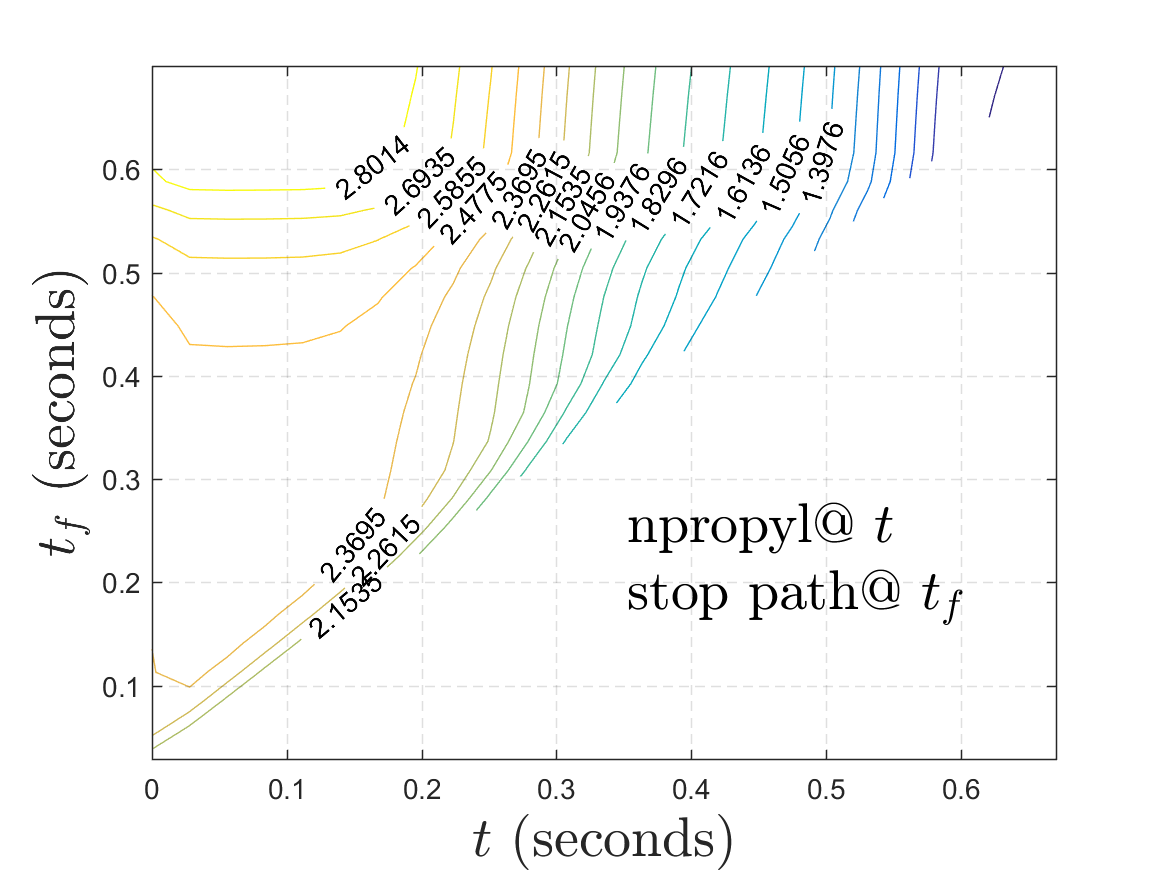
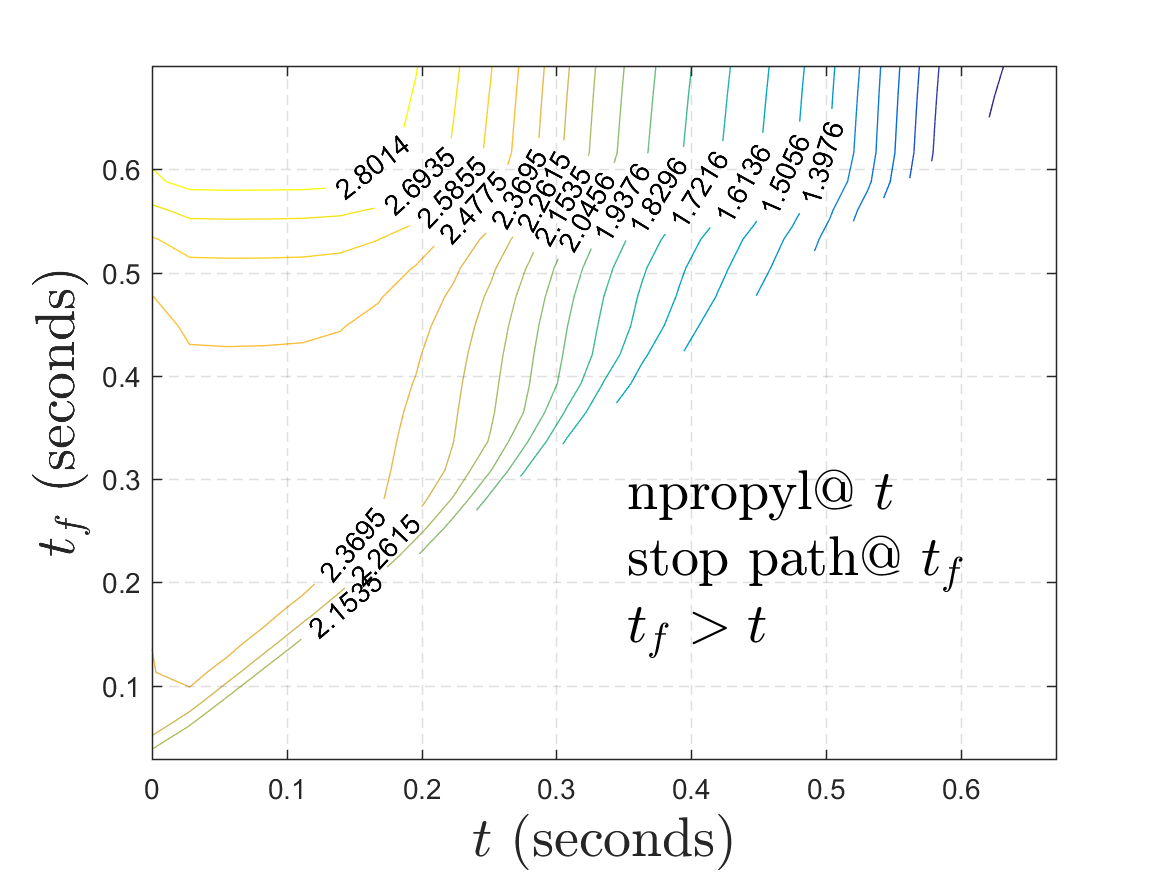
minor

Changed region(s): [[0.5244, 0.5246, 0.8329, 0.7406]]

diff --git a/theory/misc/Merchant_f/2d_f/ipropyl/two_dim_Merchant_f_v2.m b/theory/misc/Merchant_f/2d_f/ipropyl/two_dim_Merchant_f_v2.m
@@ -60,7 +60,7 @@ grid on;
 a_x = gca;
 t_x = a_x.XLim(1) + 0.525*(a_x.XLim(2) - a_x.XLim(1));
 t_y = a_x.YLim(1) + 0.278*(a_x.YLim(2) - a_x.YLim(1));
-text(t_x, t_y, [spe_name, '@ $t$' char(10) 'stop path@ $t_f$'], 'Interpreter','latex', 'FontSize', 20);
+text(t_x, t_y, [spe_name, '@ $t$' char(10) 'stop path@ $t_f$' char(10) '$t_f > t$'], 'Interpreter','latex', 'FontSize', 20);
 
 %% save to file
 figname = strcat('2d_Merchant_f_', end_t, '_S', spe_idx, '_v2.png');

diff --git a/theory/misc/Merchant_f/2d_f/npropyl/two_dim_Merchant_f_v2.m b/theory/misc/Merchant_f/2d_f/npropyl/two_dim_Merchant_f_v2.m
@@ -60,7 +60,7 @@ grid on;
 a_x = gca;
 t_x = a_x.XLim(1) + 0.525*(a_x.XLim(2) - a_x.XLim(1));
 t_y = a_x.YLim(1) + 0.278*(a_x.YLim(2) - a_x.YLim(1));
-text(t_x, t_y, [spe_name, '@ $t$' char(10) 'stop path@ $t_f$'], 'Interpreter','latex', 'FontSize', 20);
+text(t_x, t_y, [spe_name, '@ $t$' char(10) 'stop path@ $t_f$' char(10) '$t_f > t$'], 'Interpreter','latex', 'FontSize', 20);
 
 %% save to file
 figname = strcat('2d_Merchant_f_', end_t, '_S', spe_idx, '_v2.png');
